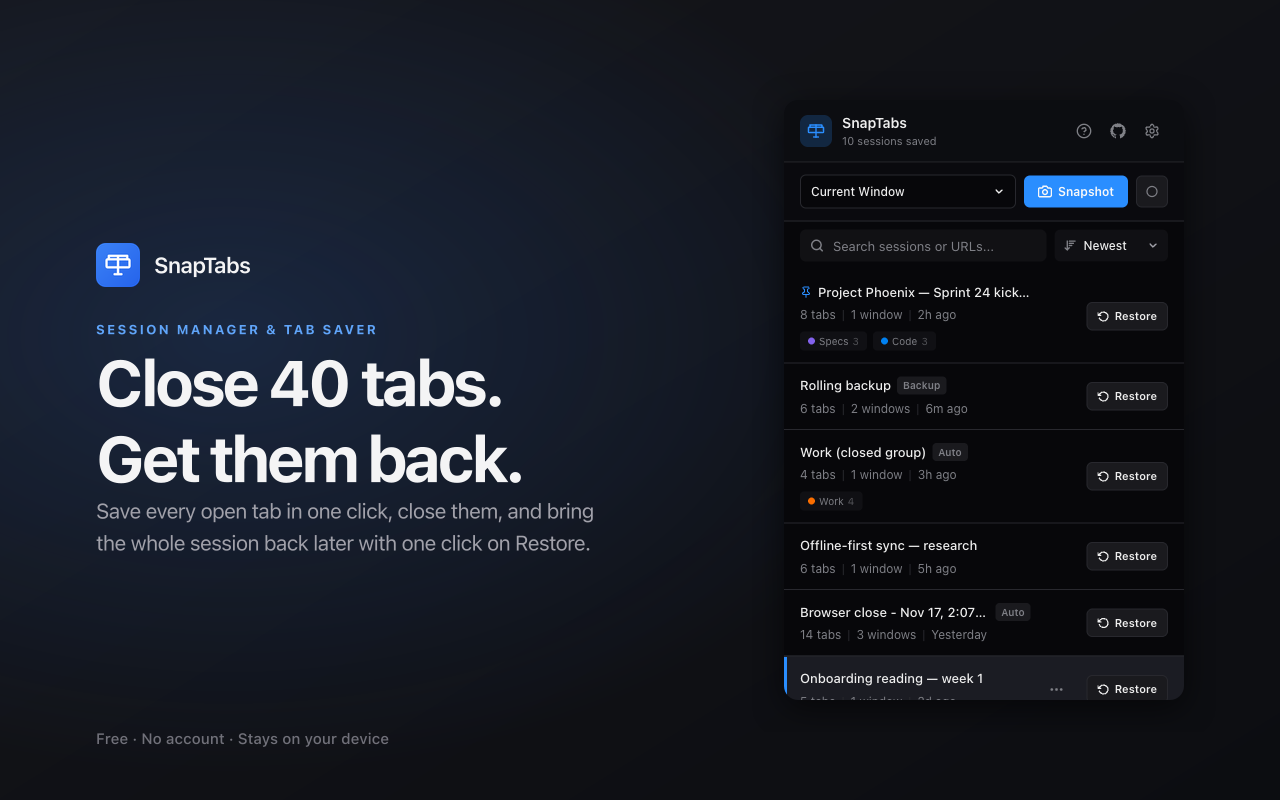
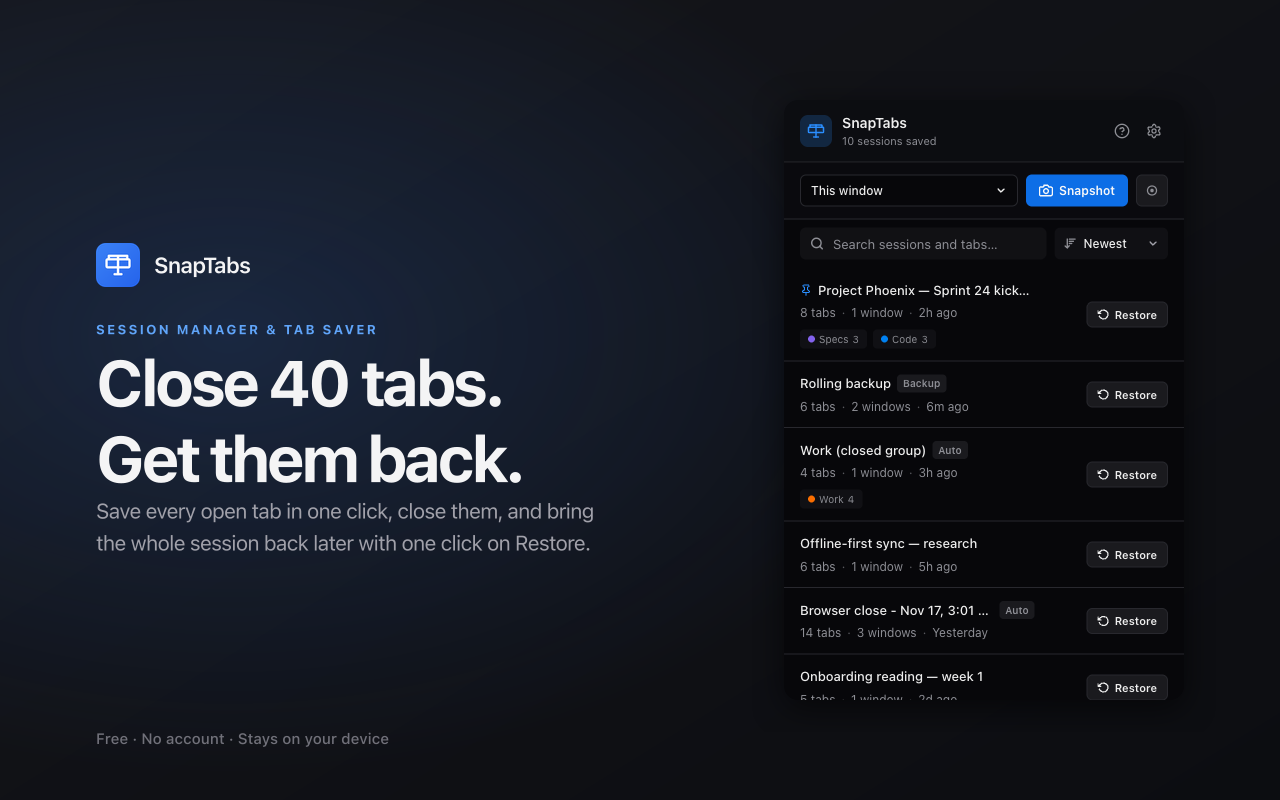
Store: regenerate the gallery for the new UI
Park the mouse in the header's corner before each capture (the old corner
now lands on a card) and after opening the session detail.

diff --git a/scripts/capture-screenshots.ts b/scripts/capture-screenshots.ts
@@ -39,9 +39,10 @@ const NO_RATING_BANNER = { [KEYS.meta]: { statsBackfilled: true, ratingPromptDon
 async function waitForPopupReady(page: import('@playwright/test').Page) {
   await page.waitForSelector('.popup', { state: 'visible' });
   await page.waitForFunction(() => !document.querySelector('.loader'), { timeout: 10_000 });
-  // Park the mouse in an empty corner so no card is captured in its hover
-  // state (the previous step's click leaves it over a card).
-  await page.mouse.move(395, 595);
+  // Park the mouse in the header's top-left corner, which has no hover styles
+  // (the bottom-right corner lands on a card), so nothing is captured in its
+  // hover state (the previous step's click leaves it over a card).
+  await page.mouse.move(4, 4);
   // Small settle pause so animations land before screenshot
   await page.waitForTimeout(250);
 }
@@ -117,6 +118,8 @@ async function main() {
   await waitForPopupReady(popup);
   await popup.locator('.card').filter({ hasText: 'Project Phoenix' }).click();
   await popup.waitForSelector('.detail', { state: 'visible' });
+  // The click leaves the mouse over a tab row of the detail view.
+  await popup.mouse.move(4, 4);
   await popup.waitForTimeout(250);
   await popup.screenshot({ path: path.join(RAW_DIR, '3-tab-groups.png') });
 
